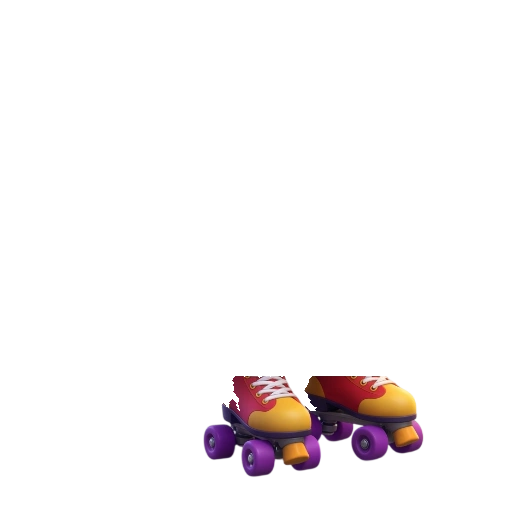
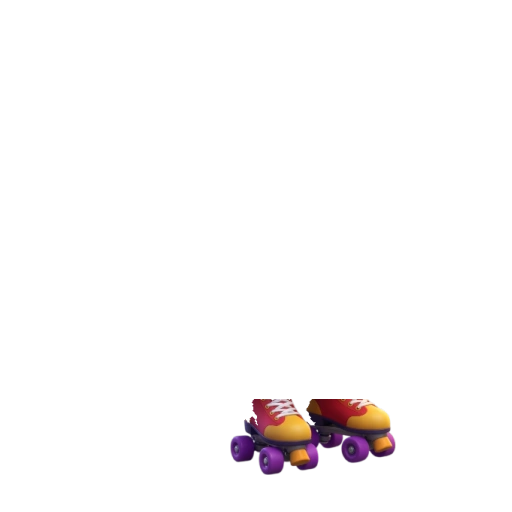
fix: fit shoes proportionally into leg zone y=400..475 below belly

Changed region(s): [[0.375, 0.7188, 0.8438, 0.9375]]

diff --git a/src/ui.tsx b/src/ui.tsx
@@ -128,7 +128,7 @@ export const PIGEON_SKIN_COLORS: Record<string, string> = {
   "iridescent-oil-slick": "#5e5a67", "skin-18": "#5e5a67", "18": "#5e5a67",
 };
 
-const ASSET_V = "?v=35";
+const ASSET_V = "?v=36";
 
 export const TAB_BACKGROUNDS: Record<string, string> = {
   birds: `/assets/backgrounds/home.webp${ASSET_V}`,

diff --git a/scripts/build-pigeon-assets.py b/scripts/build-pigeon-assets.py
@@ -700,13 +700,26 @@ def build_accessories_assets(
             aligned_rgba = align_to_reference_ecc(seg_rgba, ref_alpha, mask_mode=mask_mode)
             isolated_rgba = extract_accessory_diff(aligned_rgba, ref_rgba, slot)
             if slot == "shoes":
-                # Выравниваем подошву обуви на уровень лап эталона (y_max = 476), чтобы обувь не свисала с платформы
-                sys_y = np.where(isolated_rgba[:, :, 3] > 20)[0]
-                if len(sys_y) > 0 and sys_y.max() > 478:
-                    shift_up = int(sys_y.max() - 476)
-                    shifted = np.zeros_like(isolated_rgba)
-                    shifted[:-shift_up, :] = isolated_rgba[shift_up:, :]
-                    isolated_rgba = shifted
+                # Усаживаем обувь строго в зону ног (под животом y >= 400, подошва на платформе y_max = 475)
+                sys_y, sys_x = np.where(isolated_rgba[:, :, 3] > 20)
+                if len(sys_y) > 0:
+                    sy0, sy1 = int(sys_y.min()), int(sys_y.max())
+                    sx0, sx1 = int(sys_x.min()), int(sys_x.max())
+                    crop_s = isolated_rgba[sy0:sy1 + 1, sx0:sx1 + 1]
+                    sh_c, sw_c = crop_s.shape[:2]
+                    # Целевая высота ног: от y=400 (под пузом) до y=475 (подошва) = 75px максимум
+                    max_h = 76
+                    if sh_c > max_h or sy1 > 476:
+                        scale_s = min(1.0, max_h / max(1, sh_c))
+                        nw_s = max(1, int(round(sw_c * scale_s)))
+                        nh_s = max(1, int(round(sh_c * scale_s)))
+                        res_s = cv2.resize(crop_s, (nw_s, nh_s), interpolation=cv2.INTER_AREA)
+                        cx_s = (sx0 + sx1) / 2.0
+                        dx0 = max(0, min(TARGET_SIZE[0] - nw_s, int(round(cx_s - nw_s / 2.0))))
+                        dy0 = max(0, 475 - nh_s)
+                        canvas_s = np.zeros_like(isolated_rgba)
+                        canvas_s[dy0:dy0 + nh_s, dx0:dx0 + nw_s] = res_s
+                        isolated_rgba = canvas_s
             out_file = out_slot_dir / f"{slot}-{item_idx:02d}.webp"
             save_rgba_webp(isolated_rgba, out_file)
             px = int(np.sum(isolated_rgba[:, :, 3] > 20))
